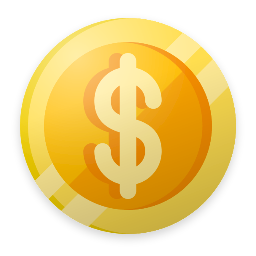
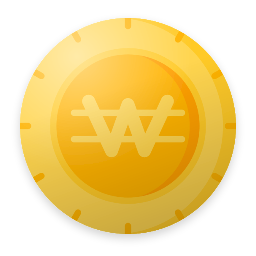
feat: 한식·저예산 카테고리 아이콘 교체 (비빔밥, ₩ 동전)
- 한식은 육수 아이콘과 분리해 korean-food 키로 따로 둠

diff --git a/src/types.ts b/src/types.ts
@@ -11,7 +11,7 @@ export type DietTag = '다이어트' | '고단백' | '자취' | '저예산';
 export type Diet = '한식' | DietTag | '빠른조리';
 
 export const DIETS: { id: Diet; label: string; icon: IconName }[] = [
-  { id: '한식', label: '한식', icon: 'pot-of-food' },
+  { id: '한식', label: '한식', icon: 'korean-food' },
   { id: '다이어트', label: '다이어트식', icon: 'green-salad' },
   { id: '고단백', label: '고단백', icon: 'poultry-leg' },
   { id: '자취', label: '자취요리', icon: 'cooking' },

diff --git a/src/data/assets.ts b/src/data/assets.ts
@@ -152,6 +152,7 @@ export const ICONS = {
   ginger: require('../../assets/ingredients/ginger.png'),
   bowl: require('../../assets/ingredients/bowl.png'),
   'pot-of-food': require('../../assets/ingredients/pot-of-food.png'),
+  'korean-food': require('../../assets/ingredients/korean-food.png'),
   'green-salad': require('../../assets/ingredients/green-salad.png'),
   cooking: require('../../assets/ingredients/cooking.png'),
   coin: require('../../assets/ingredients/coin.png'),

diff --git a/docs/flaticon-icons.md b/docs/flaticon-icons.md
@@ -1,6 +1,6 @@
 # Flaticon 재료 아이콘 다운로드 목록
 
-스타일: **Special Flat** (작가: Magnific/Freepik) · 87개
+스타일: **Special Flat** (작가: Magnific/Freepik) · 88개
 
 ## 받는 방법
 1. 아래 링크를 열고 **PNG · 512px**로 다운로드한다. (로그인 필요, 무료 회원은 하루 다운로드 수 제한이 있다)
@@ -55,10 +55,10 @@
 | `noodles.png` | 면 | [noodles](https://www.flaticon.com/free-icon/noodles_1046799) |
 | `ginger.png` | 생강 | [ginger](https://www.flaticon.com/free-icon/ginger_381089) |
 | `bowl.png` | 기타(그릇) | [porridge](https://www.flaticon.com/free-icon/porridge_8937785) |
-| `pot-of-food.png` | 한식(카테고리) | [boiling](https://www.flaticon.com/free-icon/boiling_1761437) |
+| `pot-of-food.png` | 육수 | [boiling](https://www.flaticon.com/free-icon/boiling_1761437) |
 | `green-salad.png` | 다이어트식(카테고리) | [salad](https://www.flaticon.com/free-icon/salad_1057357) |
 | `cooking.png` | 자취요리(카테고리) | [pan](https://www.flaticon.com/free-icon/pan_2702519) |
-| `coin.png` | 저예산(카테고리) | [dollar](https://www.flaticon.com/free-icon/dollar_1490853) |
+| `coin.png` | 저예산(카테고리) | [won](https://www.flaticon.com/free-icon/won_1999583) |
 | `stopwatch.png` | 빠른조리(카테고리) | [stopwatch](https://www.flaticon.com/free-icon/stopwatch_2055568) |
 | `kimchi.png` | 김치 | [kimchi](https://www.flaticon.com/free-icon/kimchi_12971418) |
 | `green-onion.png` | 대파 | [leek](https://www.flaticon.com/free-icon/leek_5346195) |
@@ -100,3 +100,4 @@
 | `kiwi.png` | 키위 | [kiwi](https://www.flaticon.com/free-icon/kiwi_3012377) |
 | `ginseng.png` | 인삼 | [ginseng](https://www.flaticon.com/free-icon/ginseng_4498477) |
 | `cinnamon.png` | 계피 | [cinnamon](https://www.flaticon.com/free-icon/cinnamon_1652100) |
+| `korean-food.png` | 한식(카테고리) | [hot](https://www.flaticon.com/free-icon/hot_2515249) |
